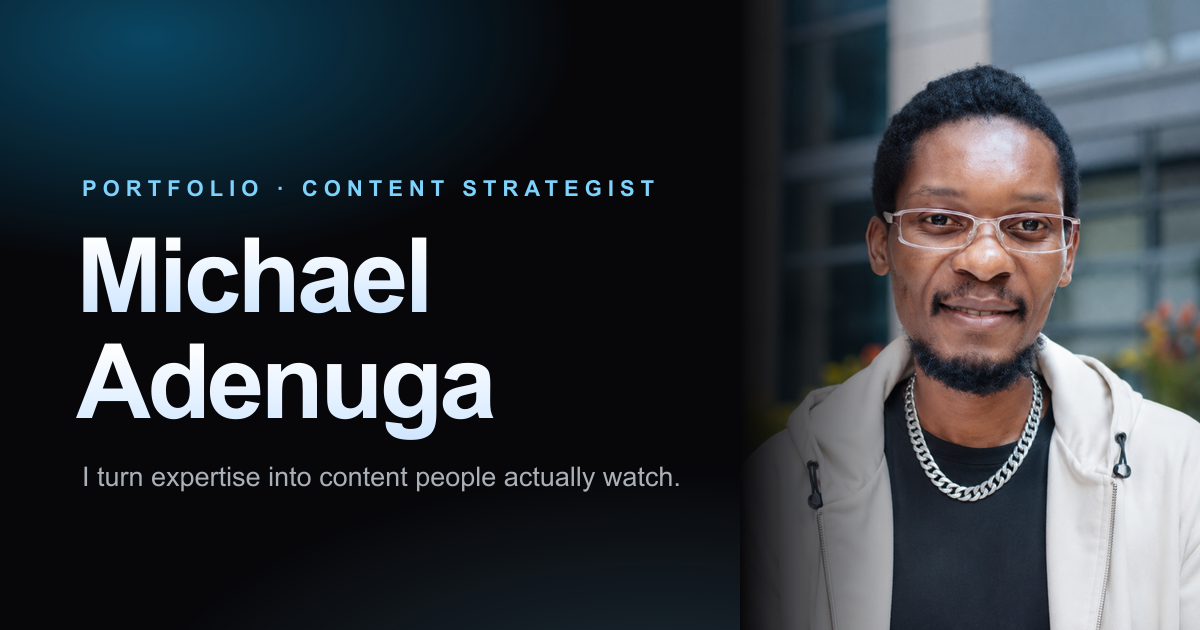
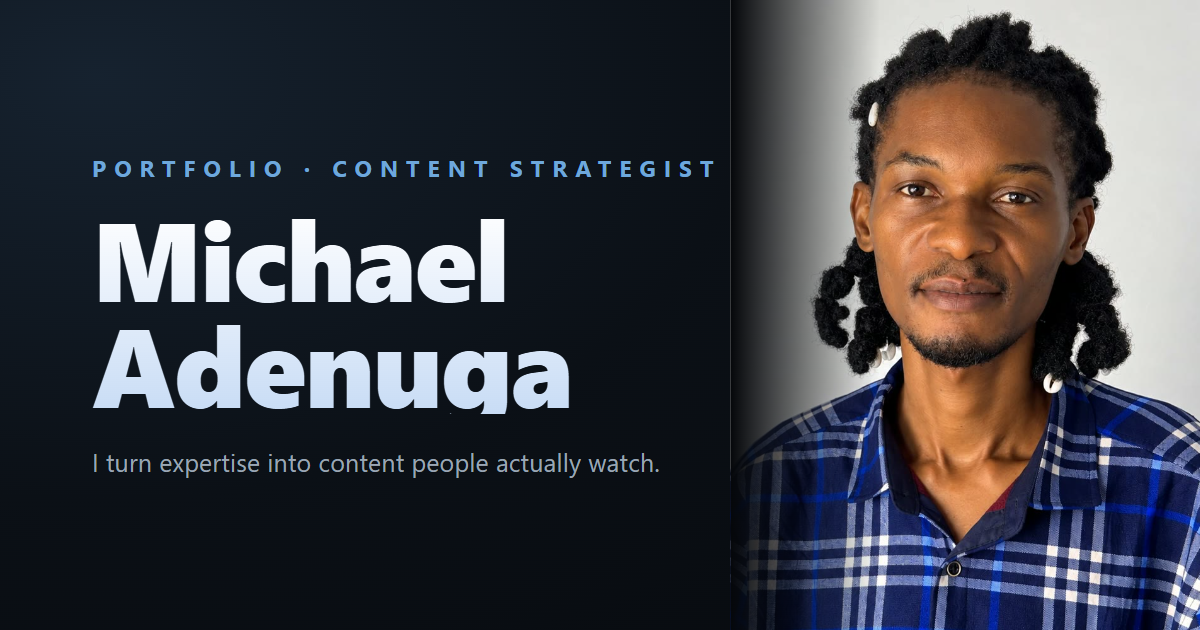
Refresh social-share (OG) image with new portrait
Rebuild the 1200x630 Open Graph / Twitter card using the new About
photo, matching the existing layout. Bump og:image/twitter:image to
?v=2 so platforms fetch the fresh image instead of a cached copy.

diff --git a/index.html b/index.html
@@ -11,7 +11,7 @@
   <meta property="og:type" content="website" />
   <meta property="og:title" content="Michael Adenuga, Content Strategist" />
   <meta property="og:description" content="I turn expertise into content people actually watch, built around one goal: attention." />
-  <meta property="og:image" content="https://michaeladenuga.netlify.app/assets/og-image.png" />
+  <meta property="og:image" content="https://michaeladenuga.netlify.app/assets/og-image.png?v=2" />
   <meta property="og:image:width" content="1200" />
   <meta property="og:image:height" content="630" />
   <meta property="og:image:alt" content="Michael Adenuga, content strategist and video editor" />
@@ -21,7 +21,7 @@
   <meta name="twitter:card" content="summary_large_image" />
   <meta name="twitter:title" content="Michael Adenuga, Content Strategist" />
   <meta name="twitter:description" content="I turn expertise into content people actually watch, built around one goal: attention." />
-  <meta name="twitter:image" content="https://michaeladenuga.netlify.app/assets/og-image.png" />
+  <meta name="twitter:image" content="https://michaeladenuga.netlify.app/assets/og-image.png?v=2" />
 
   <link rel="preconnect" href="https://www.youtube-nocookie.com" />
   <link rel="preconnect" href="https://i.ytimg.com" />
